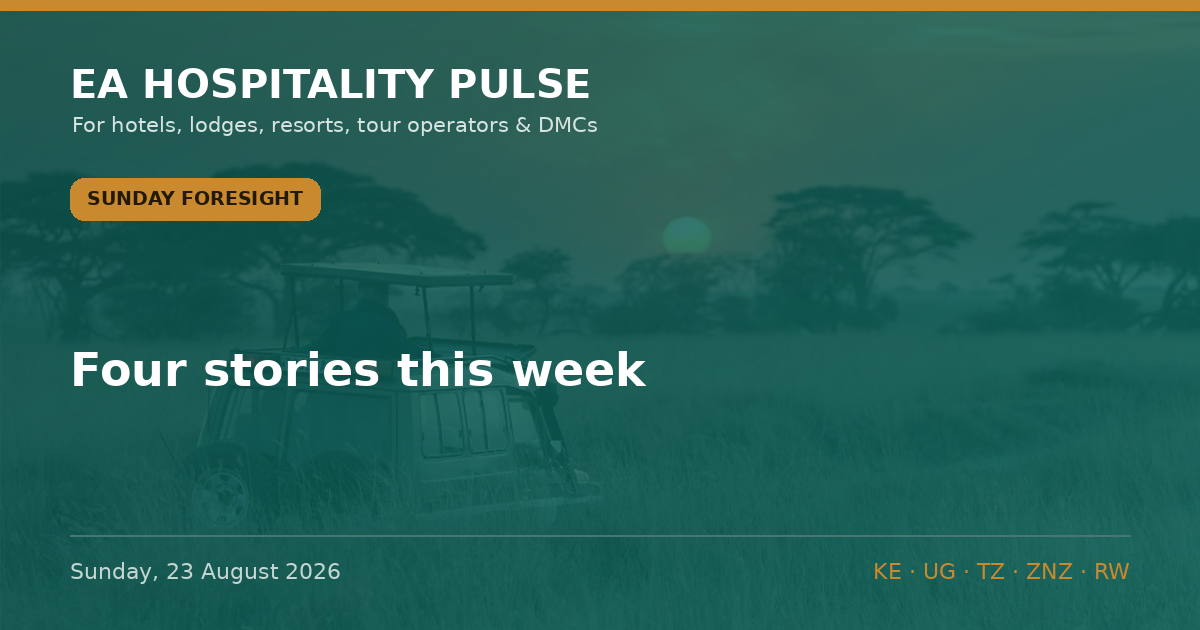
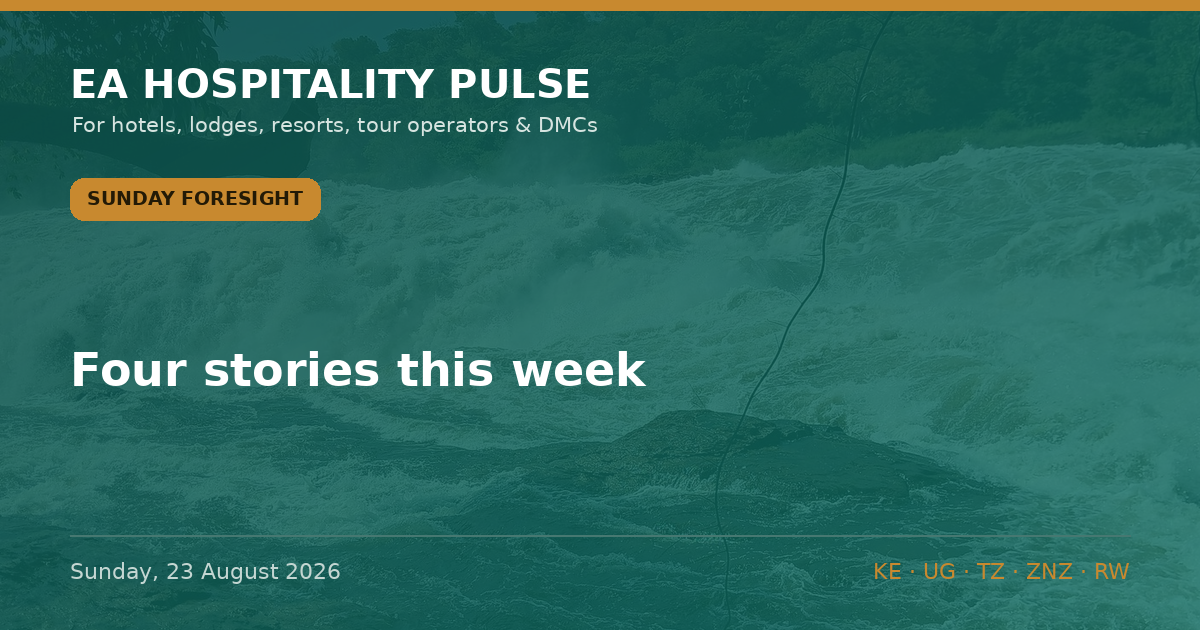
Auto-build: 2026-08-23 14:35 UTC

diff --git a/data.js b/data.js
@@ -81,15 +81,6 @@ window.EDITIONS = [
   "bodyHtml": "<p>☀ <strong>MORNING BRIEF — Tue 19 Aug 2026</strong><br><em>Quiet news slot — one expert read that matters more than any headline.</em></p>\n<p><strong>YOUR FASTEST-GROWING GUEST IS YOUR NEIGHBOUR — AND YOUR GOVERNMENT IS TAXING THEM AT THE BASE</strong></p>\n<p>Read the 2025 source-market tables and the story stops being about Europe. Uganda sent Kenya <strong>234,556 visitors in 2025 — 31% of all African arrivals, up 8.7%</strong>; Tanzania <strong>209,536, up 7.7%</strong> (KTB/TRI data via POATE 2026, reported by Citizen Digital &amp; New Vision). Kenya now targets <strong>300,000 Ugandan arrivals</strong>. In Rwanda it&#x27;s starker: the <strong>DRC is now the single largest source market — 185,420 visitors in H1 2026, 12.5% of all international arrivals</strong> (RDB). The regional guest is the base load now, not the overflow.</p>\n<p><strong>What most operators miss:</strong> the guest base changed but the playbook didn&#x27;t. The marginal booking now comes from a traveller who ignores Western Level-3 advisories, books short, drives or short-hauls in, and pays in a regional currency — yet we still run a long-haul-dollar operation: USD rack rates, GDS/OTA distribution, risk comms aimed at Europe. Worse, the same treasuries celebrating this demand are taxing its most price-sensitive flyer. Kenya&#x27;s JKIA passenger levy is now <strong>pledged to bondholders</strong> (Business Daily, 24 Jul) — hard to cut — with a 2% short-term-rental levy and a proposed travel-health-insurance charge stacking on top. Regional demand shrugs off advisories but is exquisitely sensitive to a $20 levy.</p>\n<p><span class=\"sowhat\">🎯 <strong>So what — by segment:</strong></span><br>🏙 <strong>City:</strong> regional corporate, VFR and events traffic is your steadiest base — build regional-agent and WhatsApp distribution, quote in regional terms, not just a USD rack. 🌿 <strong>Bush:</strong> regional guests are lower-ADR but fill shoulder/low season and hedge advisory-driven long-haul softness — watch the total trip cost, because a park-fee-plus-air-levy stack is what loses them. 🏖 <strong>Beach:</strong> the drive-and-short-haul market (Ugandans/Tanzanians to Diani &amp; Mombasa, regional flyers to Zanzibar) is now year-round base load — protect it from feeder-route fragility and levy creep.<br><span class=\"tagline\">🏷 Regional · Confirmed (KTB/TRI 2025, RDB H1 2026) / Inference on operator response.</span></p>\n<hr class=\"divider\">\n<p>✅ <strong>STILL TRUE</strong> — No EA advisory moved. Kenya <strong>US Level 2</strong> (core corridors, Diani, Watamu clear); Tanzania &amp; Zanzibar <strong>Level 3</strong> (since 31 Oct 2025); Uganda <strong>US Level 4</strong> on residual Ebola grounds despite its 28 Jul outbreak-over call (travel.state.gov, verified 12 Aug). The regional guest travels through all of it — don&#x27;t discount as though it had lifted.<br>💷 <strong>COST PULSE</strong> — Price regional in regional money: KES→UGX <strong>28.36</strong> · KES→TZS <strong>20.30</strong> · KES→RWF <strong>11.31</strong> (CBK weekly). Kenya diesel <strong>KSh 217.86/L</strong> (EPRA, 14 Aug) — refuse any supplier fuel surcharge this cycle.<br><span class=\"meta-line\">📅 <strong>WEEK AHEAD</strong> — <strong>19–21 Aug</strong> Hotel Expo Kenya, KICC · <strong>18–20 Aug</strong> AfPIF, Kigali Marriott · late Aug KNBS/UBOS/NISR CPI · <strong>26–28 Aug</strong> Africa Global PR Week, Nairobi · <strong>4 Sep</strong> Kwita Izina, Musanze.</span><br><span class=\"meta-line\">📡 <strong>RADAR</strong> — 470 in-window observations to 08:38 EAT; feed live. No EA advisory moved (only Mauritania/Netherlands/Ecuador flagged). Jambojet &amp; Airlink press pages moved behind Incapsula — a persistent blind spot, not news. Kenya Law feed heavy with court judgments, none hospitality.</span></p>\n<p>🔗 This edition on the web: https://eahospitalitypulse.com/editions/pulse-2026-08-19-morning.html</p>"
  },
  {
-  "id": "pulse-2026-08-18-special",
-  "date": "2026-08-18",
-  "dateDisplay": "Tuesday, 18 August 2026",
-  "edition": "Morning Brief",
-  "editionKey": "morning",
-  "summary": "1⃣ 🇰🇪 THE COAST IS OUTGROWING THE GATEWAY — AND THE NATIONAL NUMBER HIDES IT",
-  "bodyHtml": "<p>📊 <strong>EA HOSPITALITY PULSE — Special Edition</strong><br>🗓 Tuesday 18 August 2026 | 🇰🇪 KNBS data drop</p>\n<p><em>Kenya&#x27;s arrivals are up — but not where the headline says. Read the map before the margin.</em><br>━━━━━━━━━<br><strong>1⃣ 🇰🇪 THE COAST IS OUTGROWING THE GATEWAY — AND THE NATIONAL NUMBER HIDES IT</strong></p>\n<p>Official visitor arrivals now run through April. Jan–Apr 2026: <strong>828,830, up 9.5%</strong> on the same months of 2025 (757,245) — Kenya Leading Economic Indicators, June 2026, KNBS, released 14 Aug.</p>\n<p>The headline is real. The distribution is the story. Mombasa&#x27;s Moi International (MIA) took <strong>96,701 arrivals, up 19.7%</strong> year-on-year, while JKIA grew <strong>8.5%</strong> and land borders <strong>7.5%</strong>. The coast is recovering over twice as fast as the Nairobi gateway.</p>\n<p><strong>What everyone is missing:</strong> the +9.5% is not evenly yours. In April — the long-rains trough — national arrivals rose just 2.9% and <strong>JKIA fell 1.0%</strong> YoY. Strip the coast out and the city-gateway recovery is modest and seasonal. A Nairobi GM reading &quot;+9.5%&quot; as their own demand is reading the wrong line. Backing it: SGR passengers ran <strong>~12% ahead</strong> in Q1 — the Nairobi–Mombasa corridor is carrying this (KNBS).</p>\n<p><span class=\"tagline\">🏷 City/Beach · Kenya · Confirmed (KNBS arrivals &amp; SGR) / Inference (regional read)</span><br><span class=\"sowhat\">🎯 <strong>So what:</strong> <strong>Coast</strong> — demand is arriving; hold rate through the Sep–Oct build and stop discounting. <strong>Nairobi</strong> — treat H1 as flat-to-soft on your own gateway; win share through corporate, MICE and regional traffic, not a rising tide.</span></p>\n<p><strong>2⃣ 🇰🇪 THE CURRENCY IS QUIETLY REPRICING YOUR EUROPEAN GUEST</strong></p>\n<p>Over H1 2026 the shilling <strong>firmed</strong> against sterling (174.32→<strong>172.72</strong>) and the euro (151.37→<strong>149.22</strong>), flat against the dollar at <strong>~129.5</strong> (KNBS, June). Inflation sat at <strong>6.4%</strong>, the CBR held at <strong>8.75%</strong>.</p>\n<p>Read together: a European operator&#x27;s fixed FX budget now buys <strong>fewer shillings</strong> than in January — mild pressure on any KES-cost property selling into Europe, while dollar-priced lodges keep their spread intact.</p>\n<p><span class=\"tagline\">🏷 City/Bush/Beach · Kenya · Confirmed (KNBS forex/CPI) / Inference (pricing read)</span><br><span class=\"sowhat\">🎯 <strong>So what:</strong> If you cost in shillings and sell in euros or pounds, revisit 2027 contract rates now — the FX drift is against you. Price in USD and you&#x27;re insulated.</span></p>\n<p>━━━━━━━━━<br>🍲 <strong>SUPPLY-CHAIN SIDEBAR — where your southern-circuit kitchen shops</strong></p>\n<p>Informal cross-border trade <strong>fell 16.7%</strong> in 2025 (KSh 299.0m→249.1m), and <strong>Tanzania became the top source of informal imports at 47.2%</strong>, overwhelmingly <strong>food and live animals (78.5%)</strong> — KNBS Informal Cross-Border Trade Survey 2025, released 17 Aug. Main entry points: <strong>Namanga, Isebania, Malaba</strong> — the Amboseli, Mara and Uganda corridors.</p>\n<p><span class=\"sowhat\">🎯 <strong>So what:</strong> Southern-circuit lodges run partly on this informal Tanzanian fresh-food flow. A contracting, Tanzania-concentrated supply line is a produce-cost and continuity risk — worth a word with your F&amp;B suppliers before high season. 🏷 Bush · Confirmed (KNBS ICBT) / Inference.</span></p>\n<p>━━━━━━━━━<br>✅ <strong>STILL TRUE</strong> — Kenya remains US <strong>Level 2</strong>; core corridors (Nairobi, Diani, Watamu) sit in no Level 4 area (travel.state.gov, verified 12 Aug). Don&#x27;t discount on a story that hasn&#x27;t moved.</p>\n<p>⚡ <strong>COST PULSE</strong> — Nairobi diesel holds <strong>KSh 217.86/L</strong> to 14 Sep, ~KSh 14.28/L above landed-cost parity (EPRA / Business Daily, 14 Aug).</p>\n<p><span class=\"meta-line\">📅 <strong>WEEK AHEAD</strong> — <strong>19–21 Aug</strong> Hotel Expo Kenya, KICC · <strong>26–28 Aug</strong> Africa Global PR Week, Nairobi. Watch the <strong>May–June arrivals</strong> print to confirm the coast trend.</span></p>\n<p>🔗 This edition on the web: https://eahospitalitypulse.com/editions/pulse-2026-08-18-special.html<br>— EA Hospitality Pulse | Daily intelligence for city, bush &amp; beach properties</p>"
- },
- {
   "id": "pulse-2026-08-18-morning",
   "date": "2026-08-18",
   "dateDisplay": "Tuesday, 18 August 2026",
@@ -97,6 +88,15 @@ window.EDITIONS = [
   "editionKey": "morning",
   "summary": "1⃣ 🌍 THE AIRLIFT YOU'RE CELEBRATING IS THE LEAST PROFITABLE IN THE WORLD",
   "bodyHtml": "<p>🌅 <strong>EA HOSPITALITY PULSE — Morning Brief</strong><br>🗓 Tuesday 18 August 2026 | 🌍 🇰🇪 🇺🇬 🇷🇼 🇹🇿</p>\n<p><em>Expert Brief: East Africa is adding air routes faster than its airlines can afford to fly them.</em><br>━━━━━━━━━<br><strong>1⃣ 🌍 THE AIRLIFT YOU&#x27;RE CELEBRATING IS THE LEAST PROFITABLE IN THE WORLD</strong></p>\n<p>Every route launch lands as good news in this business. Uganda Airlines opens Entebbe–Accra on 27 Oct and daily Entebbe–Kigali on 18 Nov (announced 5 Aug, The EastAfrican); Airlink starts Cape Town–Zanzibar on 3 Oct. Read the balance sheet underneath and the mood changes.</p>\n<p>IATA&#x27;s December outlook put African carriers at <strong>US$1.30 of profit per passenger</strong> for 2026 against a <strong>US$7.90</strong> global average — a <strong>1.3% margin, the thinnest of any region</strong> (IATA, 9 Dec 2025). By its June AGM it had cut the 2026 line again: profit per passenger down to <strong>40 US cents</strong> from US$2.10 in 2025, and the continent&#x27;s total net profit halved to <strong>~US$100m</strong> (IATA &quot;Energy in Crisis&quot; outlook, 8 Jun 2026). East Africa&#x27;s recovery is riding on the most fragile airlift economics on the planet.</p>\n<p><strong>What everyone is missing:</strong> a new-route press release reads as demand arriving. It is actually thin-margin capacity being <strong>lent</strong> — and thin-margin capacity is the first thing cut when a season underperforms. Turkish suspended 18 routes for summer 2026, Istanbul–Dar es Salaam among them, final flights in May/June (reported 2026). The route you don&#x27;t help fill in its first two seasons is the route that isn&#x27;t there in year three. Airlift is not infrastructure you inherit; it&#x27;s a trade relationship you keep alive.</p>\n<p><span class=\"tagline\">🏷 City/Bush/Beach · Regional · Confirmed (IATA figures &amp; schedules) / Inference (fragility read)</span><br><span class=\"sowhat\">🎯 <strong>So what — by segment:</strong> <strong>City</strong> (Nairobi/Kigali/Kampala): put corporate blocks and MICE contracts onto the new regional frequencies so they survive to a third season. <strong>Bush:</strong> the luxury pivot means fewer, higher-value guests who still need a long-haul seat — cultivate the carriers that actually serve your source markets. <strong>Beach:</strong> feeder routes are the most fragile of all — a trial like Cape Town–Zanzibar lives or dies on load factor. Fill it or lose it.</span></p>\n<p>━━━━━━━━━<br>✅ <strong>STILL TRUE</strong> — Tanzania &amp; Zanzibar remain US <strong>Level 3</strong> (unchanged since 31 Oct 2025); Kenya <strong>Level 2</strong>, core tourist corridors clear (travel.state.gov, verified 12 Aug). Nothing moved overnight. Don&#x27;t discount as though it had.</p>\n<p>⚡ <strong>COST PULSE</strong> — Nairobi diesel holds at <strong>KSh 217.86/L</strong> to 14 Sep; operators are carrying roughly <strong>KSh 14.28/L above landed-cost parity</strong> — refuse any supplier fuel surcharge this cycle (EPRA / Business Daily, 14 Aug).</p>\n<p>🎤 <strong>MICE WATCH</strong> — <strong>AfPIF</strong> (300–500 delegates) fills the Kigali Marriott cluster <strong>18–20 Aug</strong>; <strong>Hotel Expo Kenya</strong> at KICC, <strong>19–21 Aug</strong>. Hold corporate rate, don&#x27;t discount into the shoulder.</p>\n<p><span class=\"meta-line\">📅 <strong>WEEK AHEAD</strong> — <strong>18 Aug</strong> WHO IHR Committee on the Bundibugyo PHEIC · <strong>22 Aug</strong> Julius Nyerere hydropower inauguration, TZ · <strong>26–28 Aug</strong> Africa Global PR Week, Mövenpick Nairobi · <strong>28 Aug</strong> WTA Africa Gala, Zanzibar · <strong>late Aug</strong> KNBS/UBOS/NISR CPI prints.</span></p>\n<p><span class=\"meta-line\">📡 <strong>RADAR</strong> — 593 in-window observations to 08:17 EAT; feed live. Jambojet and Airlink press pages moved again behind Incapsula — a persistent blind spot, not a quiet night. Kenya Law feed heavy with court judgments, none hospitality. No advisory level moved.</span></p>\n<p><span class=\"meta-line\">💬 Which inbound route would you actually miss — and are you filling it, or just watching it?</span></p>\n<p>🔗 This edition on the web: https://eahospitalitypulse.com/editions/pulse-2026-08-18-morning.html<br>— EA Hospitality Pulse | Daily intelligence for city, bush &amp; beach properties</p>"
+ },
+ {
+  "id": "pulse-2026-08-18-special",
+  "date": "2026-08-18",
+  "dateDisplay": "Tuesday, 18 August 2026",
+  "edition": "Morning Brief",
+  "editionKey": "morning",
+  "summary": "1⃣ 🇰🇪 THE COAST IS OUTGROWING THE GATEWAY — AND THE NATIONAL NUMBER HIDES IT",
+  "bodyHtml": "<p>📊 <strong>EA HOSPITALITY PULSE — Special Edition</strong><br>🗓 Tuesday 18 August 2026 | 🇰🇪 KNBS data drop</p>\n<p><em>Kenya&#x27;s arrivals are up — but not where the headline says. Read the map before the margin.</em><br>━━━━━━━━━<br><strong>1⃣ 🇰🇪 THE COAST IS OUTGROWING THE GATEWAY — AND THE NATIONAL NUMBER HIDES IT</strong></p>\n<p>Official visitor arrivals now run through April. Jan–Apr 2026: <strong>828,830, up 9.5%</strong> on the same months of 2025 (757,245) — Kenya Leading Economic Indicators, June 2026, KNBS, released 14 Aug.</p>\n<p>The headline is real. The distribution is the story. Mombasa&#x27;s Moi International (MIA) took <strong>96,701 arrivals, up 19.7%</strong> year-on-year, while JKIA grew <strong>8.5%</strong> and land borders <strong>7.5%</strong>. The coast is recovering over twice as fast as the Nairobi gateway.</p>\n<p><strong>What everyone is missing:</strong> the +9.5% is not evenly yours. In April — the long-rains trough — national arrivals rose just 2.9% and <strong>JKIA fell 1.0%</strong> YoY. Strip the coast out and the city-gateway recovery is modest and seasonal. A Nairobi GM reading &quot;+9.5%&quot; as their own demand is reading the wrong line. Backing it: SGR passengers ran <strong>~12% ahead</strong> in Q1 — the Nairobi–Mombasa corridor is carrying this (KNBS).</p>\n<p><span class=\"tagline\">🏷 City/Beach · Kenya · Confirmed (KNBS arrivals &amp; SGR) / Inference (regional read)</span><br><span class=\"sowhat\">🎯 <strong>So what:</strong> <strong>Coast</strong> — demand is arriving; hold rate through the Sep–Oct build and stop discounting. <strong>Nairobi</strong> — treat H1 as flat-to-soft on your own gateway; win share through corporate, MICE and regional traffic, not a rising tide.</span></p>\n<p><strong>2⃣ 🇰🇪 THE CURRENCY IS QUIETLY REPRICING YOUR EUROPEAN GUEST</strong></p>\n<p>Over H1 2026 the shilling <strong>firmed</strong> against sterling (174.32→<strong>172.72</strong>) and the euro (151.37→<strong>149.22</strong>), flat against the dollar at <strong>~129.5</strong> (KNBS, June). Inflation sat at <strong>6.4%</strong>, the CBR held at <strong>8.75%</strong>.</p>\n<p>Read together: a European operator&#x27;s fixed FX budget now buys <strong>fewer shillings</strong> than in January — mild pressure on any KES-cost property selling into Europe, while dollar-priced lodges keep their spread intact.</p>\n<p><span class=\"tagline\">🏷 City/Bush/Beach · Kenya · Confirmed (KNBS forex/CPI) / Inference (pricing read)</span><br><span class=\"sowhat\">🎯 <strong>So what:</strong> If you cost in shillings and sell in euros or pounds, revisit 2027 contract rates now — the FX drift is against you. Price in USD and you&#x27;re insulated.</span></p>\n<p>━━━━━━━━━<br>🍲 <strong>SUPPLY-CHAIN SIDEBAR — where your southern-circuit kitchen shops</strong></p>\n<p>Informal cross-border trade <strong>fell 16.7%</strong> in 2025 (KSh 299.0m→249.1m), and <strong>Tanzania became the top source of informal imports at 47.2%</strong>, overwhelmingly <strong>food and live animals (78.5%)</strong> — KNBS Informal Cross-Border Trade Survey 2025, released 17 Aug. Main entry points: <strong>Namanga, Isebania, Malaba</strong> — the Amboseli, Mara and Uganda corridors.</p>\n<p><span class=\"sowhat\">🎯 <strong>So what:</strong> Southern-circuit lodges run partly on this informal Tanzanian fresh-food flow. A contracting, Tanzania-concentrated supply line is a produce-cost and continuity risk — worth a word with your F&amp;B suppliers before high season. 🏷 Bush · Confirmed (KNBS ICBT) / Inference.</span></p>\n<p>━━━━━━━━━<br>✅ <strong>STILL TRUE</strong> — Kenya remains US <strong>Level 2</strong>; core corridors (Nairobi, Diani, Watamu) sit in no Level 4 area (travel.state.gov, verified 12 Aug). Don&#x27;t discount on a story that hasn&#x27;t moved.</p>\n<p>⚡ <strong>COST PULSE</strong> — Nairobi diesel holds <strong>KSh 217.86/L</strong> to 14 Sep, ~KSh 14.28/L above landed-cost parity (EPRA / Business Daily, 14 Aug).</p>\n<p><span class=\"meta-line\">📅 <strong>WEEK AHEAD</strong> — <strong>19–21 Aug</strong> Hotel Expo Kenya, KICC · <strong>26–28 Aug</strong> Africa Global PR Week, Nairobi. Watch the <strong>May–June arrivals</strong> print to confirm the coast trend.</span></p>\n<p>🔗 This edition on the web: https://eahospitalitypulse.com/editions/pulse-2026-08-18-special.html<br>— EA Hospitality Pulse | Daily intelligence for city, bush &amp; beach properties</p>"
  },
  {
   "id": "pulse-2026-08-17-evening",
@@ -2860,4 +2860,4 @@ window.INSIGHTS = [
   "editionKey": "evening"
  }
 ];
-window.BUILT_AT = "2026-08-23 17:32";
+window.BUILT_AT = "2026-08-23 14:34";

diff --git a/editions/pulse-2026-08-17-evening.html b/editions/pulse-2026-08-17-evening.html
@@ -139,7 +139,7 @@ footer.s{text-align:center;color:var(--muted);font-family:Helvetica Neue,Arial,s
 <p>🔗 This edition on the web: https://eahospitalitypulse.com/editions/pulse-2026-08-17-evening.html<br>💼 Today&#x27;s Big Read on LinkedIn: https://www.linkedin.com/company/ea-hospitality-pulse/<br>— EA Hospitality Pulse | Daily intelligence for city, bush &amp; beach properties</p>
     <div class="more"><b>More from Monday, 17 August 2026:</b> <a href="pulse-2026-08-17-midday.html">Midday Pulse</a></div>
     <aside class="refs" aria-label="Reference guides"><h2>Reference</h2><ul><li><a href="../guides/ota-commission-what-it-actually-costs.html">What OTA commission actually costs an East African hotel</a></li><li><a href="../guides/park-permit-fees-east-africa.html">Park and permit fees across East Africa: what to check before you quote</a></li><li><a href="../guides/sustainability-compliance-east-africa.html">Sustainability compliance in East Africa — plastics, carbon and certification, without the hype</a></li><li><a href="../guides/tech-stack-east-africa.html">The East African hotel tech stack — payment costs, PMS fit and where AI pricing actually works</a></li><li><a href="../guides/travel-advisories-what-actually-moves-bookings.html">Reading a travel advisory: what actually moves bookings</a></li></ul></aside>
-    <nav class="pnrow"><a class="pn prev" href="pulse-2026-08-17-midday.html" rel="prev">← Midday Pulse · Monday, 17 August 2026</a><a class="pn next" href="pulse-2026-08-18-morning.html" rel="next">Morning Brief · Tuesday, 18 August 2026 →</a></nav>
+    <nav class="pnrow"><a class="pn prev" href="pulse-2026-08-17-midday.html" rel="prev">← Midday Pulse · Monday, 17 August 2026</a><a class="pn next" href="pulse-2026-08-18-special.html" rel="next">Morning Brief · Tuesday, 18 August 2026 →</a></nav>
     <div class="sub">
       <b>Follow the Pulse</b> — three briefs a day across Kenya, Uganda, Tanzania, Zanzibar &amp; Rwanda.<br>
       <a href="https://t.me/eahospitalitypulse" target="_blank" rel="noopener">📣 Telegram (full editions)</a>

diff --git a/editions/pulse-2026-08-18-morning.html b/editions/pulse-2026-08-18-morning.html
@@ -141,7 +141,7 @@ footer.s{text-align:center;color:var(--muted);font-family:Helvetica Neue,Arial,s
 <p>🔗 This edition on the web: https://eahospitalitypulse.com/editions/pulse-2026-08-18-morning.html<br>— EA Hospitality Pulse | Daily intelligence for city, bush &amp; beach properties</p>
     <div class="more"><b>More from Tuesday, 18 August 2026:</b> <a href="pulse-2026-08-18-special.html">Morning Brief</a></div>
     <aside class="refs" aria-label="Reference guides"><h2>Reference</h2><ul><li><a href="../guides/ota-commission-what-it-actually-costs.html">What OTA commission actually costs an East African hotel</a></li><li><a href="../guides/park-permit-fees-east-africa.html">Park and permit fees across East Africa: what to check before you quote</a></li><li><a href="../guides/sustainability-compliance-east-africa.html">Sustainability compliance in East Africa — plastics, carbon and certification, without the hype</a></li><li><a href="../guides/tech-stack-east-africa.html">The East African hotel tech stack — payment costs, PMS fit and where AI pricing actually works</a></li><li><a href="../guides/travel-advisories-what-actually-moves-bookings.html">Reading a travel advisory: what actually moves bookings</a></li></ul></aside>
-    <nav class="pnrow"><a class="pn prev" href="pulse-2026-08-17-evening.html" rel="prev">← Evening Wrap · Monday, 17 August 2026</a><a class="pn next" href="pulse-2026-08-18-special.html" rel="next">Morning Brief · Tuesday, 18 August 2026 →</a></nav>
+    <nav class="pnrow"><a class="pn prev" href="pulse-2026-08-18-special.html" rel="prev">← Morning Brief · Tuesday, 18 August 2026</a><a class="pn next" href="pulse-2026-08-19-morning.html" rel="next">Morning Brief · Wednesday, 19 August 2026 →</a></nav>
     <div class="sub">
       <b>Follow the Pulse</b> — three briefs a day across Kenya, Uganda, Tanzania, Zanzibar &amp; Rwanda.<br>
       <a href="https://t.me/eahospitalitypulse" target="_blank" rel="noopener">📣 Telegram (full editions)</a>

diff --git a/editions/pulse-2026-08-18-special.html b/editions/pulse-2026-08-18-special.html
@@ -145,7 +145,7 @@ footer.s{text-align:center;color:var(--muted);font-family:Helvetica Neue,Arial,s
 <p>🔗 This edition on the web: https://eahospitalitypulse.com/editions/pulse-2026-08-18-special.html<br>— EA Hospitality Pulse | Daily intelligence for city, bush &amp; beach properties</p>
     <div class="more"><b>More from Tuesday, 18 August 2026:</b> <a href="pulse-2026-08-18-morning.html">Morning Brief</a></div>
     <aside class="refs" aria-label="Reference guides"><h2>Reference</h2><ul><li><a href="../guides/ota-commission-what-it-actually-costs.html">What OTA commission actually costs an East African hotel</a></li><li><a href="../guides/park-permit-fees-east-africa.html">Park and permit fees across East Africa: what to check before you quote</a></li><li><a href="../guides/sustainability-compliance-east-africa.html">Sustainability compliance in East Africa — plastics, carbon and certification, without the hype</a></li><li><a href="../guides/tech-stack-east-africa.html">The East African hotel tech stack — payment costs, PMS fit and where AI pricing actually works</a></li><li><a href="../guides/travel-advisories-what-actually-moves-bookings.html">Reading a travel advisory: what actually moves bookings</a></li></ul></aside>
-    <nav class="pnrow"><a class="pn prev" href="pulse-2026-08-18-morning.html" rel="prev">← Morning Brief · Tuesday, 18 August 2026</a><a class="pn next" href="pulse-2026-08-19-morning.html" rel="next">Morning Brief · Wednesday, 19 August 2026 →</a></nav>
+    <nav class="pnrow"><a class="pn prev" href="pulse-2026-08-17-evening.html" rel="prev">← Evening Wrap · Monday, 17 August 2026</a><a class="pn next" href="pulse-2026-08-18-morning.html" rel="next">Morning Brief · Tuesday, 18 August 2026 →</a></nav>
     <div class="sub">
       <b>Follow the Pulse</b> — three briefs a day across Kenya, Uganda, Tanzania, Zanzibar &amp; Rwanda.<br>
       <a href="https://t.me/eahospitalitypulse" target="_blank" rel="noopener">📣 Telegram (full editions)</a>

diff --git a/editions/pulse-2026-08-19-morning.html b/editions/pulse-2026-08-19-morning.html
@@ -136,7 +136,7 @@ footer.s{text-align:center;color:var(--muted);font-family:Helvetica Neue,Arial,s
 <p>🔗 This edition on the web: https://eahospitalitypulse.com/editions/pulse-2026-08-19-morning.html</p>
     <div class="more"><b>More from Wednesday, 19 August 2026:</b> <a href="pulse-2026-08-19-evening.html">Evening Wrap</a></div>
     <aside class="refs" aria-label="Reference guides"><h2>Reference</h2><ul><li><a href="../guides/ota-commission-what-it-actually-costs.html">What OTA commission actually costs an East African hotel</a></li><li><a href="../guides/park-permit-fees-east-africa.html">Park and permit fees across East Africa: what to check before you quote</a></li><li><a href="../guides/sustainability-compliance-east-africa.html">Sustainability compliance in East Africa — plastics, carbon and certification, without the hype</a></li><li><a href="../guides/tech-stack-east-africa.html">The East African hotel tech stack — payment costs, PMS fit and where AI pricing actually works</a></li><li><a href="../guides/travel-advisories-what-actually-moves-bookings.html">Reading a travel advisory: what actually moves bookings</a></li></ul></aside>
-    <nav class="pnrow"><a class="pn prev" href="pulse-2026-08-18-special.html" rel="prev">← Morning Brief · Tuesday, 18 August 2026</a><a class="pn next" href="pulse-2026-08-19-evening.html" rel="next">Evening Wrap · Wednesday, 19 August 2026 →</a></nav>
+    <nav class="pnrow"><a class="pn prev" href="pulse-2026-08-18-morning.html" rel="prev">← Morning Brief · Tuesday, 18 August 2026</a><a class="pn next" href="pulse-2026-08-19-evening.html" rel="next">Evening Wrap · Wednesday, 19 August 2026 →</a></nav>
     <div class="sub">
       <b>Follow the Pulse</b> — three briefs a day across Kenya, Uganda, Tanzania, Zanzibar &amp; Rwanda.<br>
       <a href="https://t.me/eahospitalitypulse" target="_blank" rel="noopener">📣 Telegram (full editions)</a>

diff --git a/editions/foresight-2026-08-23.html b/editions/foresight-2026-08-23.html
@@ -122,7 +122,7 @@ footer.s{text-align:center;color:var(--muted);font-family:Helvetica Neue,Arial,s
 <div class="wrap">
   <article class="art">
     <img class="hero" src="../og/foresight-2026-08-23-clean.png" alt="Sunday Foresight — Sunday, 23 August 2026" loading="eager">
-    
+    <p class="hcredit">Photo: BMKME · <a href="https://commons.wikimedia.org/wiki/File:White_Nile_Rapids_Near_Murchison_Falls_Viewing_Point,_Uganda_01.jpg" target="_blank" rel="noopener nofollow">Wikimedia Commons</a> · <a href="https://creativecommons.org/licenses/by-sa/4.0" target="_blank" rel="noopener nofollow">CC BY-SA 4.0</a></p>
     <nav class="crumbs" aria-label="Breadcrumb"><a href="../index.html">Home</a><span aria-hidden="true">/</span><a href="../index.html#archive">Editions</a><span aria-hidden="true">/</span><span aria-current="page">Sunday Foresight, Sunday, 23 August 2026</span></nav>
     <div class="kicker"><span class="badge">Sunday Foresight</span><time datetime="2026-08-23">Sunday, 23 August 2026</time></div>
     <h1>Four stories this week.</h1>

diff --git a/index.html b/index.html
@@ -456,7 +456,7 @@
   .imp-demand{color:var(--sage)} .imp-margin{color:var(--coral)} .imp-risk{color:#ff5b5b} .imp-watch{color:var(--amber)}
   @media(max-width:520px){.imp{position:static;display:inline-flex;margin:0 0 9px}.insight h3,.insight .imeta{padding-right:0}}
 </style>
-<!--BUILD_STAMP:20260823-1732--></head>
+<!--BUILD_STAMP:20260823-1434--></head>
 <body>
 <header class="site">
   <div class="wrap topbar">

diff --git a/ledger.js b/ledger.js
@@ -1,5 +1,5 @@
 window.LEDGER = {
- "updated": "2026-08-23 17:33",
+ "updated": "2026-08-23 14:35",
  "stats": {
   "total": 116,
   "open": 93,
